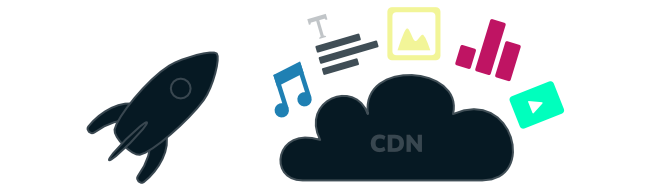
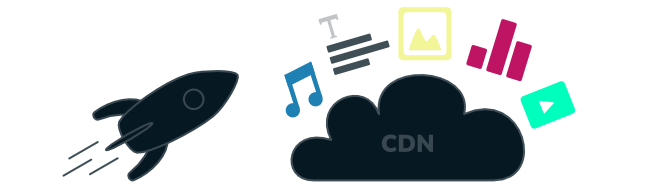
[SK-114] improve rocket illustration, make editor line numbers transparent, update cta text

Changed region(s): [[0.3994, 0.0266, 0.8909, 0.984], [0.0922, 0.266, 0.3687, 0.984], [0.553, 0.6915, 0.6759, 0.8245]]

diff --git a/src/styles/components.css b/src/styles/components.css
@@ -120,6 +120,7 @@
     }
     .editor-pane > ol > li::before {
         content: counter(list-item) "\a0\a0";
+        @apply opacity-50 text-right;
     }
 
     /*** UTILS ***/
